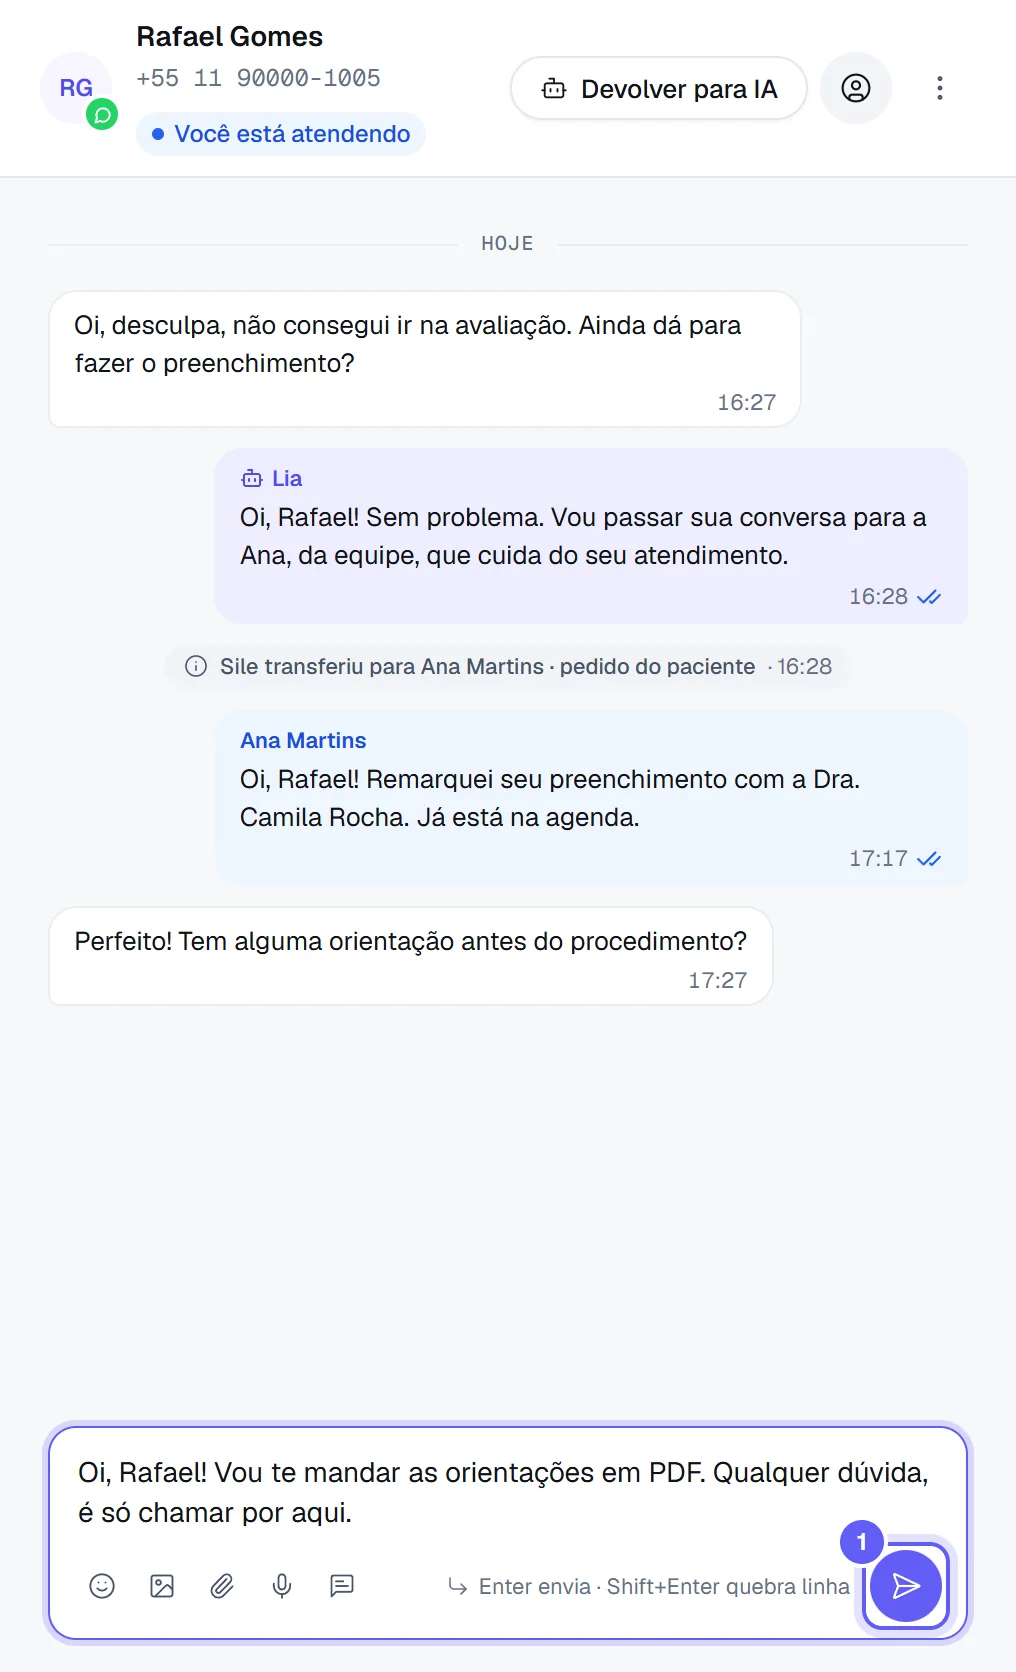
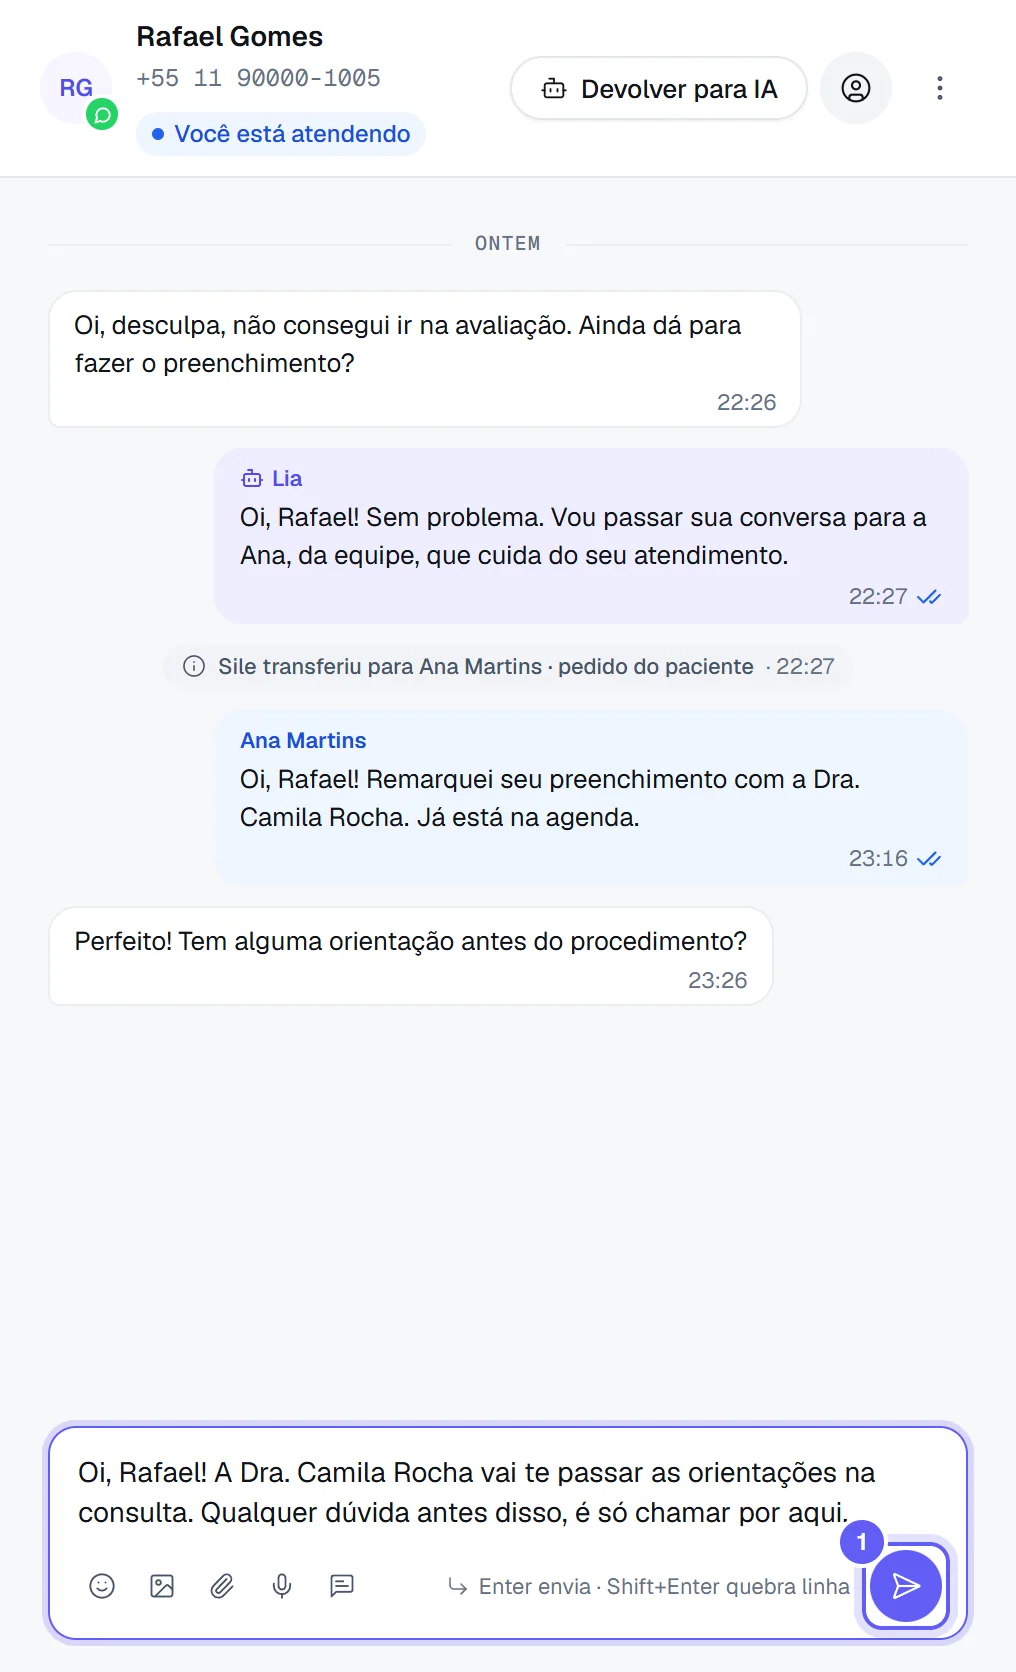
docs: mensagens de áudio e transcrição, arquivos recebidos, o que o assistente atualiza no CRM; envio de arquivos marcado como ainda indisponível
- Novos: Atendimento › Mensagens de áudio e transcrição (player, transcrição ligada ao áudio, como o assistente usa, o que acontece sem transcrição) e Imagens, documentos e vídeos recebidos (abrir, baixar, avisos de arquivo indisponível, o assistente não vê anexos e passa para a equipe); Inteligência artificial › O que o assistente atualiza no CRM (lista exata do que pode e do que nunca faz).
- Enviar arquivos para o paciente (mesma URL /atendimento/enviar-anexos): o Sile ainda não envia imagens, documentos nem áudios; receber já funciona.
- Identidade e comportamento: Atualizar CRM na lista de ferramentas.
- Capturas: novo midias.spec.ts (áudio do Felipe Martins com transcrição e resposta da Lia; imagem, documento e vídeo do Rafael Gomes, pelo simulador local); enviar-01-texto e enviar-02-modelos sem a promessa de PDF; agente-03-ferramentas com a descrição nova; capturas de anexos removidas.

diff --git a/scripts/docs-screenshots/midias.spec.ts b/scripts/docs-screenshots/midias.spec.ts
@@ -1,0 +1,90 @@
+// Atendimento: received files and voice messages in the Inbox of the operating Clínica Aurora, logged in as Ana Martins.
+// The patients' messages are delivered by the local development simulator of the WhatsApp (the same pipeline as the
+// real webhook, with fictitious files and a fictitious transcription). Only the Inbox appears in the captures.
+// Validates and captures: a voice message with its transcription answered by Lia, and an image, a document and a
+// video received in a conversation attended by Ana.
+import { test, expect, type Page } from '@playwright/test';
+import { start, go, settle, highlight, clearHighlights, shot } from './helpers';
+
+const DIR = 'atendimento';
+const convo = (page: Page, name: string) => page.locator('.sl-convo').filter({ hasText: name });
+const chat = (page: Page) => page.locator('.inbox__chat');
+const hideToasts = (page: Page) => page.addStyleTag({ content: '.toast-dock{display:none!important}' });
+
+/** The patient sends a file through the local simulator (development only; never captured). */
+async function patientSends(page: Page, name: string, type: 'Áudio' | 'Imagem' | 'Documento' | 'Vídeo') {
+  await go(page, '/dev/whatsapp');
+  await settle(page, 1000);
+  const options = await page.getByLabel('Quem envia').locator('option').allTextContents();
+  const option = options.find((o) => o.includes(name));
+  expect(option, `paciente ${name} no simulador`).toBeTruthy();
+  await page.getByLabel('Quem envia').selectOption({ label: option! });
+  await page.getByText(type, { exact: true }).click();
+  await page.getByRole('button', { name: 'Enviar como paciente' }).click();
+  await settle(page, 3000);
+}
+
+/** Region from the top of `first` to the bottom of `last`, across the chat's width (page coordinates). */
+async function between(page: Page, first: import('@playwright/test').Locator, last: import('@playwright/test').Locator, pad = 12) {
+  const a = (await first.boundingBox())!; const b = (await last.boundingBox())!; const c = (await chat(page).boundingBox())!;
+  const y = Math.max(0, a.y - pad);
+  return { x: c.x, y, width: c.width, height: b.y + b.height + pad - y };
+}
+
+async function open(page: Page, name: string) {
+  await go(page, '/inbox');
+  await settle(page, 800);
+  await convo(page, name).click();
+  await expect(page.locator('.chat__who b', { hasText: name })).toBeVisible();
+  await settle(page, 1500);
+}
+
+test('mensagem de voz com transcrição', async ({ page }) => {
+  await start(page);
+  await hideToasts(page);
+  await patientSends(page, 'Felipe Martins', 'Áudio');
+  await open(page, 'Felipe Martins');
+
+  const audio = chat(page).locator('.sl-msg').filter({ has: page.locator('.sl-msg__audio') }).last();
+  await expect(audio.getByRole('button', { name: 'Ouvir áudio' })).toBeVisible();
+  await expect(audio.getByText('Transcrição')).toBeVisible();
+  await expect(audio.locator('.sl-msg__transcript-text')).not.toBeEmpty();
+  // Lia answers from the transcription, in the same conversation.
+  await expect(chat(page).locator('.sl-msg__author', { hasText: 'Lia' }).last()).toBeVisible();
+  const reply = chat(page).locator('.sl-msg').filter({ has: page.locator('.sl-msg__author', { hasText: 'Lia' }) }).last();
+  await audio.scrollIntoViewIfNeeded();
+  const region = await between(page, audio, reply, 20);
+
+  await highlight(audio.locator('.sl-msg__audio'), 1, { pad: 6, radius: 22 });
+  await highlight(audio.locator('.sl-msg__transcript'), 2, { pad: 2 });
+  await shot(page, `${DIR}/audio-01-transcricao`, { clip: region });
+  await clearHighlights(page);
+});
+
+test('imagem, documento e vídeo recebidos', async ({ page }) => {
+  await start(page);
+  await hideToasts(page);
+  await patientSends(page, 'Rafael Gomes', 'Imagem');
+  await patientSends(page, 'Rafael Gomes', 'Documento');
+  await patientSends(page, 'Rafael Gomes', 'Vídeo');
+  await open(page, 'Rafael Gomes');
+
+  const image = chat(page).getByRole('link', { name: 'Abrir imagem em outra aba' }).last();
+  const download = chat(page).getByRole('button', { name: /^Baixar / }).last();
+  const video = chat(page).getByRole('button', { name: 'Carregar vídeo' }).last();
+  await expect(image).toBeVisible();
+  await expect(download).toBeVisible();
+  await expect(video).toBeVisible();
+  await video.scrollIntoViewIfNeeded();
+  const first = chat(page).locator('.sl-msg').filter({ has: page.getByRole('link', { name: 'Abrir imagem em outra aba' }) }).last();
+  const last = chat(page).locator('.sl-msg').filter({ has: page.getByRole('button', { name: 'Carregar vídeo' }) }).last();
+  const wide = await between(page, first, last, 20);
+  const right = Math.max(...(await Promise.all([first, chat(page).locator('.sl-msg__file').last(), last].map((l) => l.boundingBox()))).map((b) => b!.x + b!.width));
+  const region = { ...wide, width: Math.min(wide.width, right - wide.x + 32) };
+
+  await highlight(image, 1, { pad: 4 });
+  await highlight(chat(page).locator('.sl-msg__file').last(), 2, { pad: 6 });
+  await highlight(last.locator('.sl-msg__media'), 3, { pad: 4 });
+  await shot(page, `${DIR}/arquivos-01-recebidos`, { clip: region });
+  await clearHighlights(page);
+});

diff --git a/scripts/docs-screenshots/atendimento.spec.ts b/scripts/docs-screenshots/atendimento.spec.ts
@@ -1,6 +1,6 @@
 // Atendimento: Inbox of the operating Clínica Aurora, logged in as Ana Martins (Owner).
 // Validates and captures: overview, opening a conversation, taking over, returning to the assistant ("Lia" in the dataset),
-// sending messages, templates, attachments and the contact panel.
+// sending messages and templates, and the contact panel. Received files and voice messages: midias.spec.ts.
 import { test, expect, type Page } from '@playwright/test';
 import { start, go, settle, highlight, clearHighlights, shot } from './helpers';
 
@@ -91,7 +91,7 @@ test('assumir e devolver um atendimento', async ({ page }) => {
   await shot(page, `${DIR}/devolver-03-ia-de-volta`, { locator: chat(page) });
 });
 
-test('enviar mensagens, modelos e anexos', async ({ page }) => {
+test('enviar mensagens e modelos', async ({ page }) => {
   await start(page);
   await go(page, '/inbox');
   await settle(page, 700);
@@ -104,37 +104,13 @@ test('enviar mensagens, modelos e anexos', async ({ page }) => {
   // Conversa da Ana: texto
   await open(page, 'Rafael Gomes');
   const box = page.getByRole('textbox', { name: 'Mensagem' });
-  await box.fill('Oi, Rafael! Vou te mandar as orientações em PDF. Qualquer dúvida, é só chamar por aqui.');
+  await box.fill('Oi, Rafael! A Dra. Camila Rocha vai te passar as orientações na consulta. Qualquer dúvida antes disso, é só chamar por aqui.');
   await highlight(page.locator('.sl-composer').getByRole('button', { name: 'Enviar', exact: true }), 1);
   await shot(page, `${DIR}/enviar-01-texto`, { locator: chat(page) });
   await clearHighlights(page);
   await box.press('Enter');
-  await expect(chat(page).getByText('Vou te mandar as orientações em PDF')).toBeVisible();
+  await expect(chat(page).getByText('vai te passar as orientações na consulta')).toBeVisible();
   await settle(page, 800);
-
-  // Barra de ferramentas do campo de mensagem
-  const bar = page.locator('.sl-composer__bar');
-  await highlight(bar.getByRole('button', { name: 'Emoji' }), 1, { pad: 2 });
-  await highlight(bar.getByRole('button', { name: 'Enviar imagem' }), 2, { pad: 2 });
-  await highlight(bar.getByRole('button', { name: 'Enviar documento' }), 3, { pad: 2 });
-  await highlight(bar.getByRole('button', { name: 'Gravar áudio' }), 4, { pad: 2 });
-  await highlight(bar.getByRole('button', { name: 'Modelos' }), 5, { pad: 2 });
-  await shot(page, `${DIR}/anexos-01-ferramentas`, { locator: composer(page), pad: 16 });
-  await clearHighlights(page);
-
-  // Documento
-  await page.locator('.sl-composer input[type="file"][accept*=".pdf"]').setInputFiles({
-    name: 'orientacoes-preenchimento.pdf', mimeType: 'application/pdf', buffer: Buffer.alloc(184 * 1024, 32),
-  });
-  await expect(chat(page).getByText('orientacoes-preenchimento.pdf')).toBeVisible();
-  await settle(page, 400);
-  await shot(page, `${DIR}/anexos-02-documento-enviado`, { locator: chat(page) });
-
-  // Áudio: gravação em andamento
-  await bar.getByRole('button', { name: 'Gravar áudio' }).click();
-  await page.waitForTimeout(3200);
-  await shot(page, `${DIR}/anexos-03-gravando-audio`, { locator: composer(page), pad: 4 });
-  await page.getByRole('button', { name: 'Descartar áudio' }).click();
 
   // Modelos aprovados
   await page.locator('.sl-composer__bar').getByRole('button', { name: 'Modelos' }).click();

diff --git a/scripts/docs-screenshots/README.md b/scripts/docs-screenshots/README.md
@@ -46,7 +46,8 @@ Sile local (dataset Clínica Aurora)
 | Spec | Artigos |
 | --- | --- |
 | `comecando.spec.ts` | Começando: configuração guiada completa (estágio em implantação), Integrações, Agente e Playground. O teste "integrações antes de conectar o WhatsApp" falha de propósito enquanto o artigo do WhatsApp não é revisto (o modal de conexão do produto mudou; revisão junto com a integração com a Meta) |
-| `atendimento.spec.ts` | Atendimento: Inbox, abrir, assumir, devolver, enviar mensagens, anexos e dados do contato |
+| `atendimento.spec.ts` | Atendimento: Inbox, abrir, assumir, devolver, enviar mensagens e modelos e dados do contato |
+| `midias.spec.ts` | Atendimento: mensagem de voz com transcrição respondida pela Lia (Felipe Martins) e imagem, documento e vídeo recebidos (Rafael Gomes). As mensagens do paciente entram pelo simulador de WhatsApp do app em desenvolvimento (mesmo caminho do webhook real, com arquivos e transcrição fictícios); o simulador nunca aparece nas capturas |
 | `agente.spec.ts` | Inteligência artificial: Identidade e comportamento (em Conhecimento e em Agente), o quadro Exemplo, Testar sem salvar e o Playground com "Configuração não salva" (nada é salvo) |
 | `campanhas.spec.ts` | WhatsApp → Campanhas: lista, as cinco etapas de uma campanha, público e exclusões, agendamento, confirmação, resultados e "Criar campanha" em Contatos |
 

diff --git a/docs/dataset.md b/docs/dataset.md
@@ -88,6 +88,15 @@ Nos pacientes da história, Mariana Souza também tem a etiqueta Avaliação, Ju
 
 Modelos aprovados: **Retorno semestral** (nome do paciente e da clínica) e **Convite para um serviço** (nome do paciente, da clínica e um serviço escolhido na campanha).
 
+### Mídias recebidas
+
+As capturas de áudio e arquivos (`midias.spec.ts`) não estão no dataset fixo: o paciente as envia na hora, pelo simulador de WhatsApp do app em desenvolvimento.
+
+| Paciente | O que envia | Na história |
+| --- | --- | --- |
+| Felipe Martins | Mensagem de voz pedindo para remarcar a consulta para a próxima semana, de manhã (transcrição fictícia) | A Lia responde com horários de consulta de retorno |
+| Rafael Gomes | Uma imagem, o documento `exame.pdf` e um vídeo | Conversa atendida por Ana Martins |
+
 ## Assistente da clínica
 
 | Estágio | Nome | Configuração |
